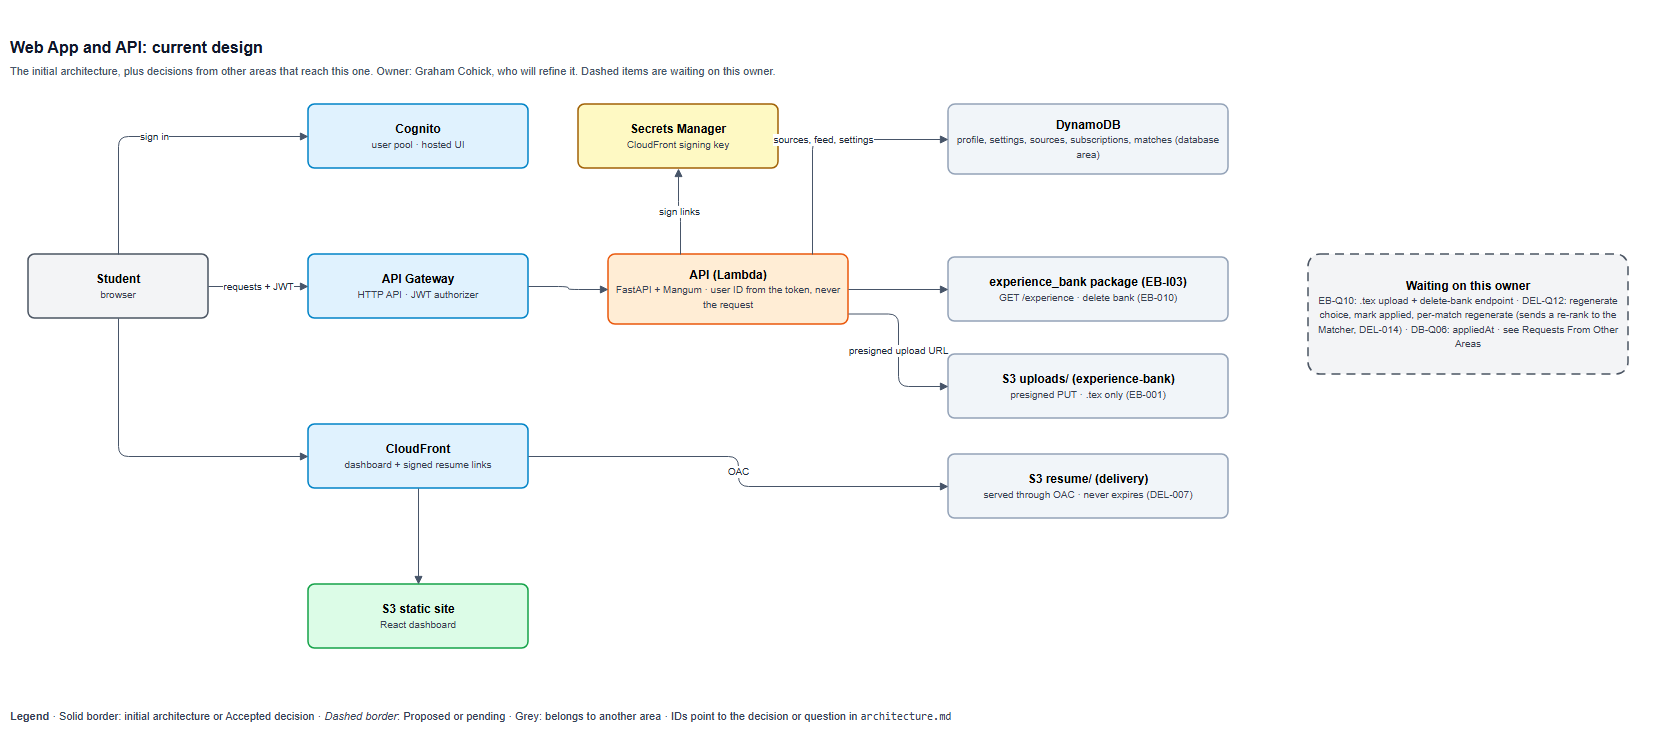
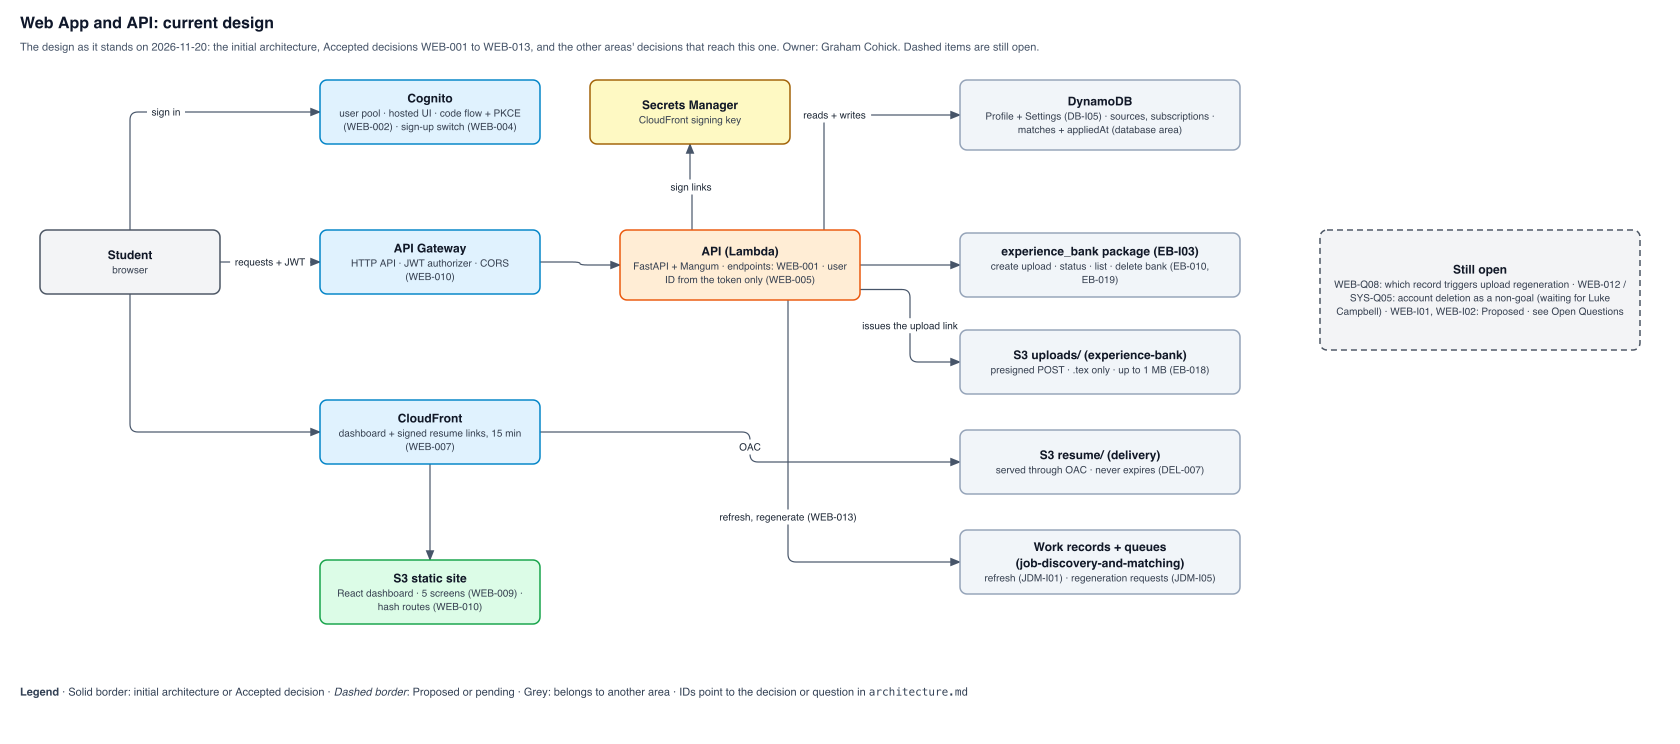
updated web app and api diagram

diff --git a/planning/architecture/web-app-and-api/AGENTS.md b/planning/architecture/web-app-and-api/AGENTS.md
@@ -14,7 +14,7 @@ Web App and API is how a student gets into Froop and uses it: signing in, upload
 ## Status
 Project phase: 1. Architecture Planning
 Area state: Draft
-Last reviewed: 2026-11-19
+Last reviewed: 2026-11-20
 
 ## Files
 
@@ -22,7 +22,7 @@ Last reviewed: 2026-11-19
 |---|---|---|
 | `AGENTS.md` | This guide | Current. Purpose and ground rules approved by the owner on 2026-11-18. |
 | `architecture.md` | Scope, Initial Architecture, Architecture Review, Decisions, Interfaces, Open Questions, Requests From Other Areas | Draft. Scope (confirmed), Initial Architecture, Architecture Review (17 findings), Decisions WEB-001 to WEB-013, Interfaces (WEB-I01 and WEB-I02, both Proposed), and Open Questions have content (WEB-Q01 to WEB-Q07 answered; WEB-Q05 and WEB-Q08 open). Requests From Other Areas is empty. |
-| `architecture.drawio`, `architecture.png` | The current design diagram, embedded in `architecture.md` | Out of date since 2026-11-18. Drawn on 2026-11-17 from the initial architecture plus other areas' decisions. It doesn't yet carry the IDs of WEB-001 to WEB-011, and its "Waiting on this owner" note still lists EB-Q10 and DB-Q06, which are answered. No component changed. Update and re-export it before the area goes to `In Review`. |
+| `architecture.drawio`, `architecture.png` | The current design diagram, embedded in `architecture.md` | Current as of 2026-11-20. It carries the IDs of the Accepted decisions, the presigned POST (EB-018), and the API's link to job discovery for refresh and regeneration (JDM-I01, JDM-I05, WEB-013). Its dashed "Still open" box lists WEB-Q08, WEB-012, and the two Proposed interfaces. The PNG was rendered from the `.drawio` with a small script and `rsvg-convert`, because neither draw.io nor a working headless browser was available, so arrow routing and text wrapping may differ slightly from a draw.io export. |
 | `implementation-plan.md` | Ordered tasks with acceptance criteria | Draft. 16 tasks (WEB-T01 to WEB-T16). WEB-T01 and WEB-T11 are Planned, and the rest are Blocked on named decisions, interfaces, or questions. |
 
 Where to look:
